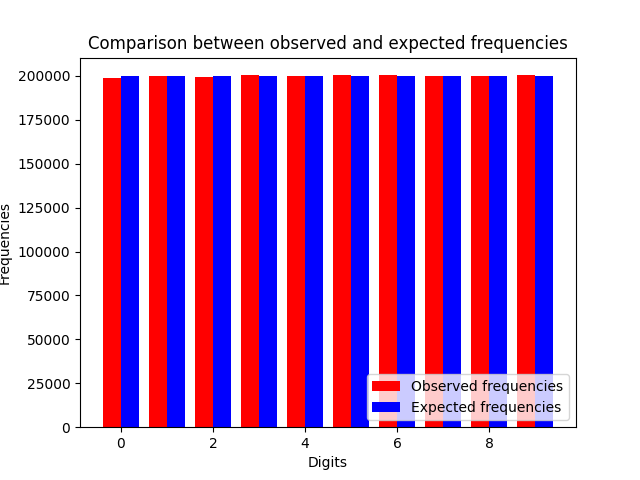
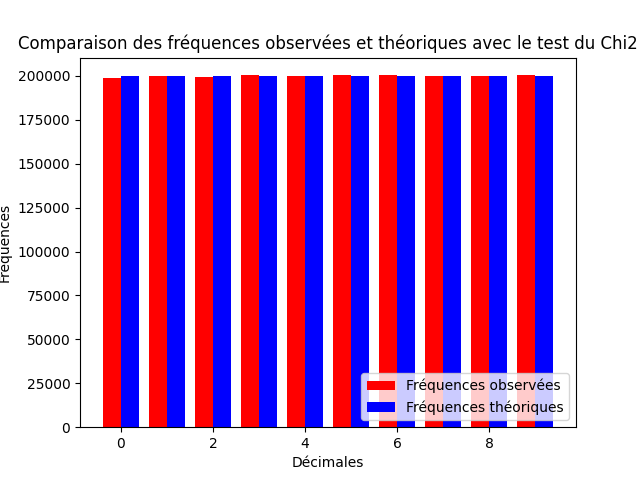
Added Generator

diff --git a/Code/EDecimals.py b/Code/EDecimals.py
@@ -1,3 +1,4 @@
+import math
 import sys
 import re
 from collections import Counter
@@ -40,36 +41,41 @@ class EDecimals:
         plt.savefig("eDecimalsDistribution.png")
         plt.show()
 
-    def chiSquaredTest(self, df=None, pValues=[0.1, 0.05, 0.01, 0.001]):
+    def chiSquaredTest(self, data, df=None, pValues=[0.1, 0.05, 0.01, 0.001]):
         observedFrequencies = np.zeros(10)
-        for digit in self.decimals:
+        for digit in data:
             observedFrequencies[digit] += 1
         expectedFrequencies = np.zeros(10)
         for i in range(10):
-            expectedFrequencies[i] = len(self.decimals) / 10
-        Kr = np.sum((observedFrequencies - expectedFrequencies) ** 2 / expectedFrequencies)
-        print("Here is the Kr value : " + str(Kr))
+            expectedFrequencies[i] = len(data) / 10
+
+        Kr = 0
+        for i in range(10):
+            Kr += ((observedFrequencies[i] - expectedFrequencies[i]) / math.sqrt(expectedFrequencies[i]))**2
 
         if df is None:
             df = len(observedFrequencies) - 1
         else:
             df = df
 
+        #HO : the decimals of e are uniformly distributed
+        # On va accepter H0 si il est fort probable que les décimales de e soient uniformément distribuées
+        print("H0 : the decimals of e are uniformly distributed")
         for p in pValues:
-            if Kr <= chi2.ppf(q=1 - p, df=df):
-                print(f"ACCEPT at {p : }% ; Kr = {Kr : ^6.5f} <= ChiSquared critical value = {chi2.ppf(q=1 - p, df=df) : ^7.5f} ; df = {df}")
+            if Kr <= chi2.ppf(q=1-p, df=df):
+                print(f"ACCEPT H0 at {p * 100 : }% ; Kr = {Kr : ^6.5f} <= ChiSquared critical value = {chi2.ppf(q=1-p, df=df) : ^7.5f} ; df = {df}")
             else:
-                print(f"REJECT at {p : }% ; Kr = {Kr : ^6.5f} <= ChiSquared critical value = {chi2.ppf(q=1 - p, df=df) : ^7.5f} ; df = {df}")
+                print(f"REJECT H0 at {p * 100 : }% ; Kr = {Kr : ^6.5f} >= ChiSquared critical value = {chi2.ppf(q=1-p, df=df) : ^7.5f} ; df = {df}")
 
         print("Each time the Kr value is lower than the ChiSquared critical value, we accept the null "
               "hypothesis\nWhich means that the decimals of e are uniformly distributed and so are random\n")
 
         plt.figure()
-        plt.bar(np.arange(10) - 0.2, observedFrequencies, width=0.4, color="red", label="Observed frequencies")
-        plt.bar(np.arange(10) + 0.2, expectedFrequencies, width=0.4, color="blue",label="Expected frequencies")
-        plt.title("Comparison between observed and expected frequencies")
-        plt.xlabel("Digits")
-        plt.ylabel("Frequencies")
+        plt.bar(np.arange(10) - 0.2, observedFrequencies, width=0.4, color="red", label="Fréquences observées")
+        plt.bar(np.arange(10) + 0.2, expectedFrequencies, width=0.4, color="blue",label="Fréquences théoriques")
+        plt.title("Comparaison des fréquences observées et théoriques avec le test du Chi2")
+        plt.xlabel("Décimales")
+        plt.ylabel("Frequences")
         plt.legend(loc="lower right")
         plt.savefig("eDecimalsChi2.png")
         plt.show()
@@ -108,10 +114,10 @@ class EDecimals:
             s.add(value)
         nbrOfDifferentValues[len(s)-1] += 1
 
-    def pokerTest(self, nbrOfIntervals, sizeOfPacket):
+    def pokerTest(self,data, nbrOfIntervals, sizeOfPacket):
 
         # We split the decimals into packets of size sizeOfPacket
-        packets = [self.decimals[i:i+sizeOfPacket] for i in range(0, len(self.decimals), sizeOfPacket)]
+        packets = [data[i:i+sizeOfPacket] for i in range(0, len(data), sizeOfPacket)]
 
         # Once we've done that we can compute the number of different values in each packet
         nbrOfDifferentValues = [0] * 5
@@ -124,7 +130,7 @@ class EDecimals:
         # values in a packet. Ex : if the packet is 55555, we have 1 set
         expectedProbability = [0] * 5
         for i in range(5):
-            expectedProbability[i] = self.pokerProb(i+1, sizeOfPacket, 10)
+            expectedProbability[i] = self.pokerProb(i+1, sizeOfPacket, nbrOfIntervals)
 
         # We have 2M decimals so we have 2M/sizeOfPacket packets i.e we have
         # 400k packets. So now we can compute the expected number of sets
@@ -137,10 +143,27 @@ class EDecimals:
 
         print(f"Observed number of different values in a packet : {nbrOfDifferentValues}")
         print(f"Expected number of different values in a packet : {expectedNbrOfDifferentValues}")
-        print(f"Absolute error : {absoluteError}")
+
+        # I will now perform a ChiSquared test to see if the observed values are close to the expected ones
+
+        Kr = 0
+
+        for i in range(5):
+            Kr += ((nbrOfDifferentValues[i] - expectedNbrOfDifferentValues[i]) / math.sqrt(expectedNbrOfDifferentValues[i]))**2
+
+        df = 4
+
+        pValues = [0.1, 0.05, 0.01, 0.001]
+
+        for p in pValues:
+            if Kr <= chi2.ppf(q= 1- p, df=df):
+                print(f"ACCEPT H0 at {p * 100 : }% ; Kr = {Kr : ^6.5f} <= ChiSquared critical value = {chi2.ppf(q=1 - p, df=df) : ^7.5f} ; df = {df}")
+            else:
+                print(f"REJECT at {p * 100 : }% ; Kr = {Kr : ^6.5f} > ChiSquared critical value = {chi2.ppf(q=1 -p, df=df) : ^7.5f} ; df = {df}")
 
 
         xline = np.arange(1, 6)
+        plt.figure()
         plt.title(f"Comparaison des fréquences observées et \nthéoriques pour des paquets de taille {sizeOfPacket}")
         plt.xlabel("Nombre de valeurs différentes par paquet")
         plt.ylabel("Fréquences")
@@ -152,4 +175,40 @@ class EDecimals:
 
 
 
-        # Then we split each packet into intervals of size nbrOfIntervals
+    def basicGenerator(self, length):
+        k = len(self.decimals)
+        randomSequence = []
+        randomSequenceToTest = []
+
+        for i in range(length):
+            randomIndex = i % k
+            randomDigit = self.decimals[randomIndex]
+            randomSequence.append(randomDigit / 10)
+            randomSequenceToTest.append(randomDigit)
+
+        return randomSequenceToTest
+
+
+    def linearCongruentialGenerator(self, length):
+        #Il s'agit de valeurs typiques pour les paramètres d'un LCG
+        #Celles ci peuvent être trouveées sur cette page : https://fr.abcdef.wiki/wiki/Linear_congruential_generator
+        m = 2 ** 32
+        a = 1664525
+        c = 1013904223
+        seed = 12345
+
+        randomSequence = []
+        randomSequenceToTest = []
+
+        for i in range(length):
+            randomIndex = seed % length
+            randomDigit = self.decimals[randomIndex]
+            randomSequence.append(randomDigit / 10)
+            randomSequenceToTest.append(randomDigit)
+            seed = (a * seed + c) % m
+
+        return randomSequenceToTest
+
+
+
+

diff --git a/client.py b/client.py
@@ -1,4 +1,5 @@
 import os
+import random
 
 import questionary
 from Code.EDecimals import *
@@ -31,6 +32,19 @@ testMenu = [
     }
 ]
 
+generatorMenu = [
+    {
+    'type': 'list',
+    'name': 'Generator Menu',
+    'message': 'Do you want to generate and test or compare with Python ?',
+    'choices': [
+        'Generate and Test',
+        'Compare',
+    ],
+    'use_arrow_keys': True
+    }
+]
+
 confirmMenu = [
     {
     'type': 'confirm',
@@ -49,13 +63,32 @@ def main():
     elif answer1.get("Main Menu") == 'Information on the pseudo-randomness of e decimals':
         answer2 = questionary.prompt(testMenu)
         if answer2.get("Test Menu") == 'Chi-Squared test':
-            EDecimals.chiSquaredTest(e)
+            EDecimals.chiSquaredTest(e, e.decimals)
         elif answer2.get("Test Menu") == 'Poker Test':
-            EDecimals.pokerTest(e, 10, 5)
+            EDecimals.pokerTest(e,e.decimals, 10, 5)
 
     elif answer1.get("Main Menu") == 'Generation of uniform distribution with e decimals':
-        # TODO
-        print("TODO")
+        answer3 = questionary.prompt(generatorMenu)
+        if answer3.get("Generator Menu") == 'Generate and Test':
+
+            print("----- Basic Generator -----")
+            BFreq = EDecimals.basicGenerator(e, 2000000)
+            print("Chi-Squared Test :")
+            EDecimals.chiSquaredTest(e, BFreq)
+            print("Poker Test validated by the Chi-Squared Test:")
+            EDecimals.pokerTest(e, BFreq, 10, 5)
+
+            print("\n\n")
+            print("----- LCG Generator -----")
+            LCGfrequencies = EDecimals.linearCongruentialGenerator(e, 2000000)
+            print("Chi-Squared Test :")
+            EDecimals.chiSquaredTest(e, LCGfrequencies)
+            print("Poker Test validated by the Chi-Squared Test:")
+            EDecimals.pokerTest(e, LCGfrequencies, 10, 5)
+
+        elif answer3.get("Generator Menu") == 'Test':
+            #TODO
+            pass
 
     elif answer1.get("Main Menu") == 'Exit':
         print("Goodbye !")
